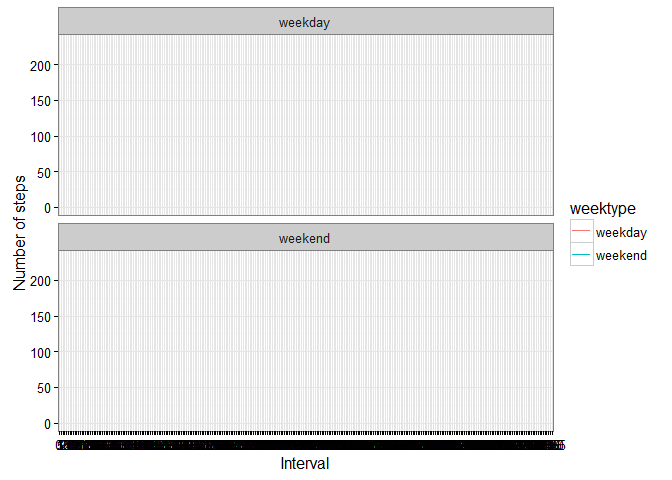
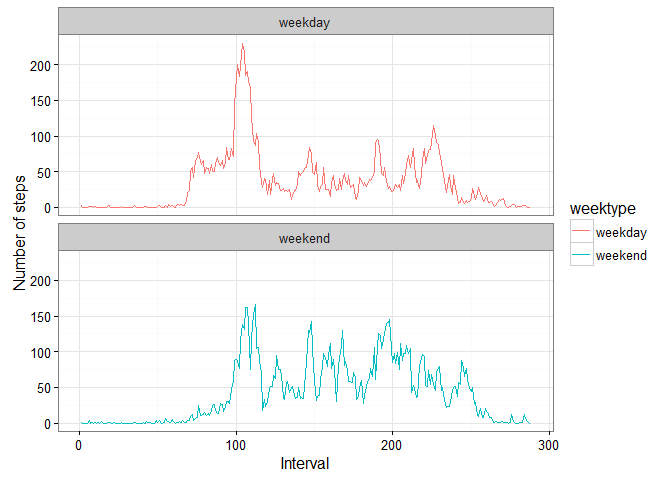
Fixed plotting issue
Interval was a factor and had to be converted to a numeric value to be
plotted.

diff --git a/PA1_template.html b/PA1_template.html
@@ -256,16 +256,16 @@ intvlTotals &lt;- data_cmplt %&gt;%
   group_by(interval, weektype) %&gt;%
   summarise(steps = mean(steps))
 
+# Interval needs to be numeric to plot
+intvlTotals$interval &lt;- as.numeric(intvlTotals$interval)
+
 ggplot(intvlTotals, aes(x=interval, y=steps, color = weektype)) + 
-  geom_line() + 
+  geom_line(aes(group=weektype)) + 
   facet_wrap(~weektype, nrow=2, ncol=1) +
   labs(x=&quot;Interval&quot;, y=&quot;Number of steps&quot;) +
   theme_bw()</code></pre>
-<pre><code>## geom_path: Each group consists of only one observation. Do you need to
-## adjust the group aesthetic?
-## geom_path: Each group consists of only one observation. Do you need to
-## adjust the group aesthetic?</code></pre>
[2 lines of base64/hex data omitted]
+<p>Based on the plots, it appears that activity ramps up more slowly on weekends, but there is more activity during the day on weekends and activity tapers off very rapidly on weekends.</p>
 </div>
 
 

diff --git a/PA1_template.md b/PA1_template.md
@@ -263,18 +263,18 @@ intvlTotals <- data_cmplt %>%
   group_by(interval, weektype) %>%
   summarise(steps = mean(steps))
 
+# Interval needs to be numeric to plot
+intvlTotals$interval <- as.numeric(intvlTotals$interval)
+
 ggplot(intvlTotals, aes(x=interval, y=steps, color = weektype)) + 
-  geom_line() + 
+  geom_line(aes(group=weektype)) + 
   facet_wrap(~weektype, nrow=2, ncol=1) +
   labs(x="Interval", y="Number of steps") +
   theme_bw()
 ```
 
-```
-## geom_path: Each group consists of only one observation. Do you need to
-## adjust the group aesthetic?
-## geom_path: Each group consists of only one observation. Do you need to
-## adjust the group aesthetic?
-```
-
 ![](PA1_template_files/figure-html/unnamed-chunk-14-1.png)
+
+Based on the plots, it appears that activity ramps up more slowly on
+weekends, but there is more activity during the day on weekends and
+activity tapers off very rapidly on weekends.
